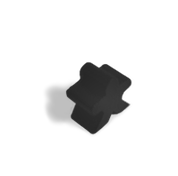
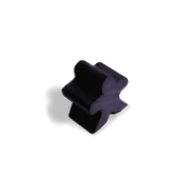
Setting real pieces and stacking

Changed region(s): [[0.3371, 0.3409, 0.7584, 0.767]]

diff --git a/src/index.js b/src/index.js
@@ -46,24 +46,39 @@ render(
   document.getElementById('root')
 );
 
-store.dispatch(addPiece({piece_id:'king1', onActivate:'SHOW_INFO', user_id:'user123', image:'./images/iso-big-k.png', pos:{x:0, y:0}}));
-store.dispatch(addPiece({piece_id:'king2', onActivate:'SHOW_INFO', user_id:'user123', image:'./images/iso-big-r.png', pos:{x:1, y:0}}));
-store.dispatch(addPiece({piece_id:'king3', onActivate:'SHOW_INFO', user_id:'user123', image:'./images/iso-big-y.png', pos:{x:2, y:0}}));
-store.dispatch(addPiece({piece_id:'king4', onActivate:'SHOW_INFO', user_id:'user123', image:'./images/iso-big-r.png', pos:{x:3, y:0}}));
+store.dispatch(addPiece({piece_id:'king1', can_move:1, onActivate:'SHOW_INFO', user_id:'user123', image:'./images/iso-big-y.png', pos:{x:0, y:0}}));
+store.dispatch(addPiece({piece_id:'knight1', can_move:1, onActivate:'SHOW_INFO', user_id:'user123', image:'./images/iso-small-y.png', pos:{x:1, y:0}}));
+store.dispatch(addPiece({piece_id:'knight2', can_move:1, onActivate:'SHOW_INFO', user_id:'user123', image:'./images/iso-small-y.png', pos:{x:2, y:0}}));
 
-store.dispatch(addPiece({piece_id:'king5', onActivate:'SHOW_INFO', user_id:'user123', image:'./images/iso-big-y.png', pos:{x:0, y:1}}));
-store.dispatch(addPiece({piece_id:'king6', onActivate:'SHOW_INFO', user_id:'user123', image:'./images/iso-small-r.png', pos:{x:1, y:1}}));
-store.dispatch(addPiece({piece_id:'king7', onActivate:'SHOW_INFO', user_id:'user123', image:'./images/iso-small-y.png', pos:{x:2, y:1}}));
-store.dispatch(addPiece({piece_id:'king8', onActivate:'SHOW_INFO', user_id:'user123', image:'./images/iso-small-y.png', pos:{x:3, y:1}}));
+store.dispatch(addPiece({piece_id:'rebel1', can_move:1, onActivate:'SHOW_INFO', user_id:'user123', image:'./images/iso-big-k.png', pos:{x:3, y:0}}));
+store.dispatch(addPiece({piece_id:'farmer1', can_move:1, onActivate:'SHOW_INFO', user_id:'user123', image:'./images/iso-small-k.png', pos:{x:4, y:0}}));
+store.dispatch(addPiece({piece_id:'farmer2', can_move:1, onActivate:'SHOW_INFO', user_id:'user123', image:'./images/iso-small-k.png', pos:{x:5, y:0}}));
+store.dispatch(addPiece({piece_id:'farmer3', can_move:1, onActivate:'SHOW_INFO', user_id:'user123', image:'./images/iso-small-k.png', pos:{x:6, y:0}}));
+store.dispatch(addPiece({piece_id:'farmer4', can_move:1, onActivate:'SHOW_INFO', user_id:'user123', image:'./images/iso-small-k.png', pos:{x:7, y:0}}));
+store.dispatch(addPiece({piece_id:'farmer5', can_move:1, onActivate:'SHOW_INFO', user_id:'user123', image:'./images/iso-small-k.png', pos:{x:8, y:0}}));
 
-store.dispatch(addPiece({piece_id:'enemy1', onActivate:'SHOW_INFO', user_id:'system', image:'./images/iso-enemy.png', pos:{x:12, y:1}}));
-store.dispatch(addPiece({piece_id:'enemy2', onActivate:'SHOW_INFO', user_id:'system', image:'./images/iso-enemy.png', pos:{x:12, y:3}}));
-store.dispatch(addPiece({piece_id:'enemy3', onActivate:'SHOW_INFO', user_id:'system', image:'./images/iso-enemy.png', pos:{x:10, y:3}}));
-store.dispatch(addPiece({piece_id:'marker1', onActivate:'SHOW_INFO', user_id:'system', image:'./images/iso-marker.png', pos:{x:10, y:3}}));
+store.dispatch(addPiece({piece_id:'levy1', can_move:1, onActivate:'SHOW_INFO', user_id:'user123', image:'./images/iso-big-r.png', pos:{x:0, y:1}}));
+store.dispatch(addPiece({piece_id:'merchant1', can_move:1, onActivate:'SHOW_INFO', user_id:'user123', image:'./images/iso-small-r.png', pos:{x:1, y:1}}));
+store.dispatch(addPiece({piece_id:'merchant2', can_move:1, onActivate:'SHOW_INFO', user_id:'user123', image:'./images/iso-small-r.png', pos:{x:2, y:1}}));
+store.dispatch(addPiece({piece_id:'merchant3', can_move:1, onActivate:'SHOW_INFO', user_id:'user123', image:'./images/iso-small-r.png', pos:{x:3, y:1}}));
 
-store.dispatch(addCard({piece_id:'king8', card_type:'MOVE_PIECE'}));
+store.dispatch(addPiece({piece_id:'house1', can_move:0, onActivate:'SHOW_INFO', user_id:'system', image:'./images/iso-house.png', pos:{x:11, y:0}}));
+
+store.dispatch(addPiece({piece_id:'enemy1', can_move:0, onActivate:'SHOW_INFO', user_id:'system', image:'./images/iso-enemy.png', pos:{x:14, y:0}}));
+store.dispatch(addPiece({piece_id:'enemy2', can_move:0, onActivate:'SHOW_INFO', user_id:'system', image:'./images/iso-enemy.png', pos:{x:14-0.50, y:0-0.18}}));
+store.dispatch(addPiece({piece_id:'enemy3', can_move:0, onActivate:'SHOW_INFO', user_id:'system', image:'./images/iso-enemy.png', pos:{x:14-1.10, y:0-0.38}}));
+store.dispatch(addPiece({piece_id:'enemy4', can_move:0, onActivate:'SHOW_INFO', user_id:'system', image:'./images/iso-enemy.png', pos:{x:12, y:1}}));
+store.dispatch(addPiece({piece_id:'enemy5', can_move:0, onActivate:'SHOW_INFO', user_id:'system', image:'./images/iso-enemy.png', pos:{x:14, y:1}}));
+store.dispatch(addPiece({piece_id:'enemy6', can_move:0, onActivate:'SHOW_INFO', user_id:'system', image:'./images/iso-enemy.png', pos:{x:14, y:2}}));
+store.dispatch(addPiece({piece_id:'enemy7', can_move:0, onActivate:'SHOW_INFO', user_id:'system', image:'./images/iso-enemy.png', pos:{x:12, y:3}}));
+store.dispatch(addPiece({piece_id:'enemy8', can_move:0, onActivate:'SHOW_INFO', user_id:'system', image:'./images/iso-enemy.png', pos:{x:14, y:3}}));
+
+store.dispatch(addPiece({piece_id:'marker1', can_move:0, onActivate:'SHOW_INFO', user_id:'system', image:'./images/iso-marker.png', pos:{x:11, y:3}}));
+
+store.dispatch(addCard({piece_id:'enemy1', card_type:'MOVE_PIECE'}));
 store.dispatch(addCard({piece_id:'king1', card_type:'MOVE_PIECE'}));
-store.dispatch(addCard({piece_id:'king4', card_type:'MOVE_PIECE'}));
+store.dispatch(addCard({piece_id:'rebel1', card_type:'MOVE_PIECE'}));
+store.dispatch(addCard({piece_id:'farmer1', card_type:'MOVE_PIECE'}));
+store.dispatch(addCard({piece_id:'enemy1', card_type:'GAME_OVER'}));
 
-store.dispatch(runNextCard({}));
 store.dispatch(runNextCard({}));

diff --git a/src/reducers/mymap.js b/src/reducers/mymap.js
@@ -6,13 +6,32 @@ const rearrangePieces = (pieces=[],choosen_piece_index=-1,action_type) => {
 
   if(action_type==='MOVE_NORTH') diff_y=-1;
   if(action_type==='MOVE_SOUTH') diff_y=+1;
-  
+
   new_pieces[choosen_piece_index].pos.y+=diff_y;
   if(new_pieces[choosen_piece_index].pos.y<0){
     new_pieces[choosen_piece_index].pos.y=5;
   }
   if(new_pieces[choosen_piece_index].pos.y>5){
     new_pieces[choosen_piece_index].pos.y=0;
+  }
+
+  //fix the rows to the left and right
+  let first_empty_x_on_the_left=0;
+  let first_empty_x_on_the_choosen=0;
+  let first_empty_x_on_the_right=0;
+  for(let ii=0;ii<new_pieces.length;ii++){
+    if(new_pieces[ii].can_move===1 && new_pieces[ii].pos.y===new_pieces[choosen_piece_index].pos.y-1){
+      new_pieces[ii].pos.x=first_empty_x_on_the_left;
+      first_empty_x_on_the_left++;
+    }
+    if(new_pieces[ii].can_move===1 && new_pieces[ii].pos.y===new_pieces[choosen_piece_index].pos.y){
+      new_pieces[ii].pos.x=first_empty_x_on_the_choosen;
+      first_empty_x_on_the_choosen++;
+    }
+    if(new_pieces[ii].can_move===1 && new_pieces[ii].pos.y===new_pieces[choosen_piece_index].pos.y+1){
+      new_pieces[ii].pos.x=first_empty_x_on_the_right;
+      first_empty_x_on_the_right++;
+    }
   }
 
   return new_pieces;

diff --git a/src/components/Map.js b/src/components/Map.js
@@ -38,7 +38,8 @@ class Map extends Component {
         backgroundPosition: (this.grid2iso(this.props.mymap.center,{x:0,y:0}).x-680)+'px '
         +(this.grid2iso(this.props.mymap.center,{x:0,y:0}).y-355)+'px'}}>
 
-        {(this.props.mymap.choosen_piece_index>-1) &&
+        {this.props.mymap.choosen_piece_index>-1 && 
+          this.props.mymap.pieces[this.props.mymap.choosen_piece_index].can_move===1 &&
           <div>
             <Piece
               key='arrow-n'

diff --git a/public/style.css b/public/style.css
@@ -68,7 +68,7 @@ html body {
   animation-name: move-n;
   animation-duration: 1s;
   animation-iteration-count: infinite;
-  z-index: 0;
+  z-index: 2;
 }
 
 #arrow-s {
